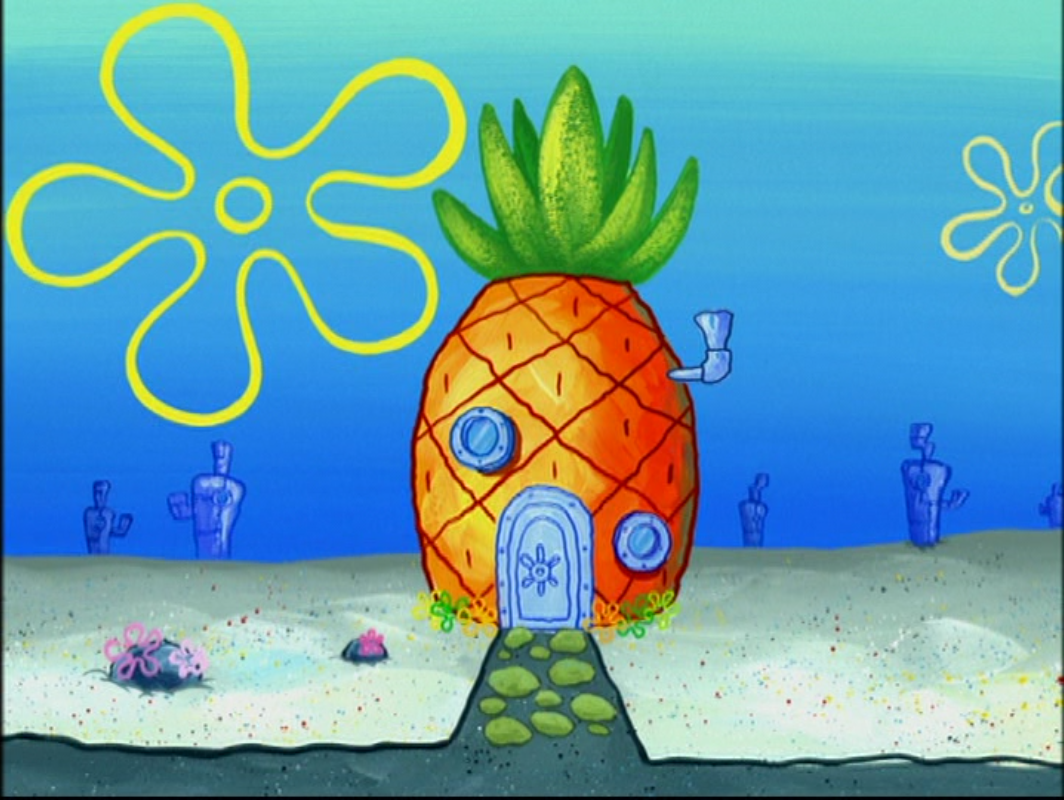
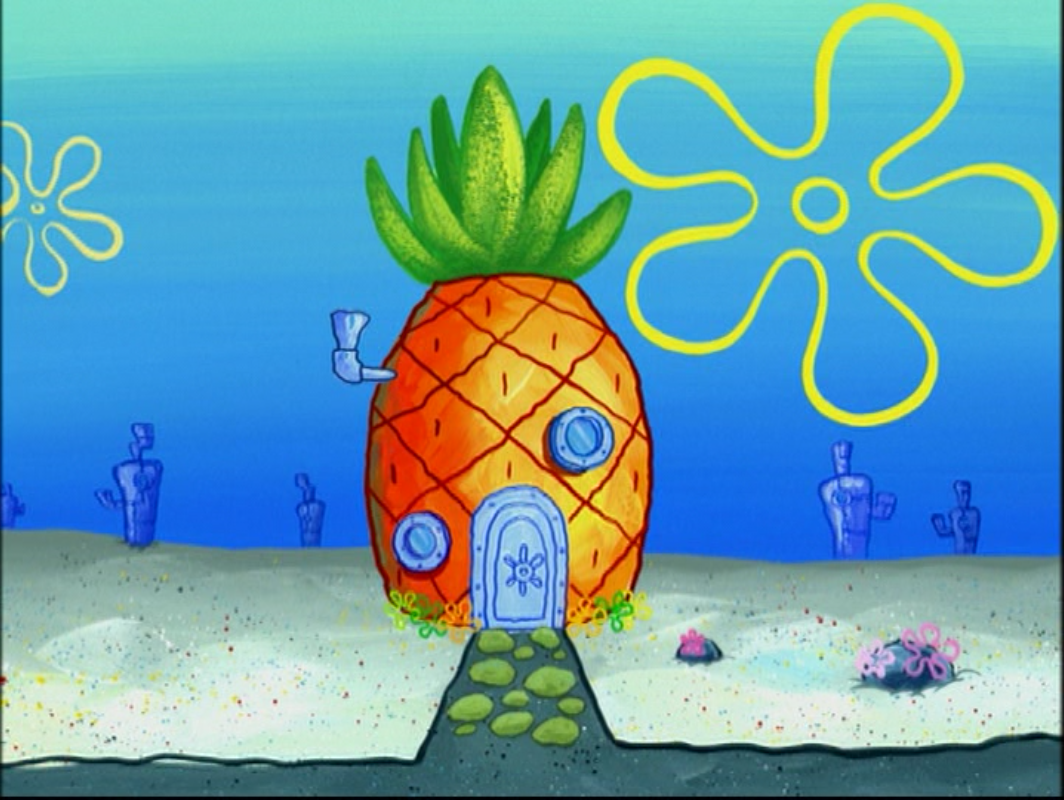
SpongeBob

diff --git a/js/gip.js b/js/gip.js
@@ -136,8 +136,8 @@
 
 		// Bob World
 		if (simon.level % 4 == 0) {
-			var aquaWorld = easelJsUtils.aquaWorld(0, 0, {
-				scale: [1.2, 1.2]
+			var aquaWorld = easelJsUtils.aquaWorld(-380, -50, {
+				scale: [1.5, 1.5]
 			});
 		}
 		if (simon.level % 4 == 0) {
